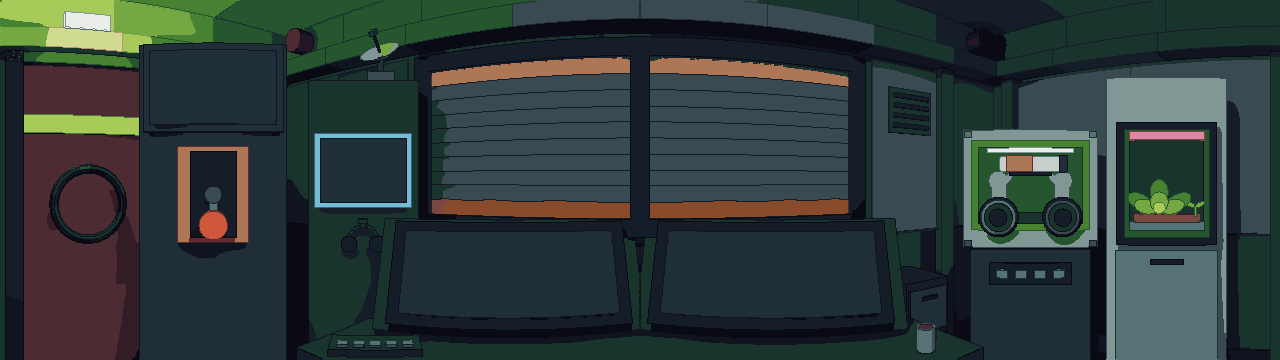
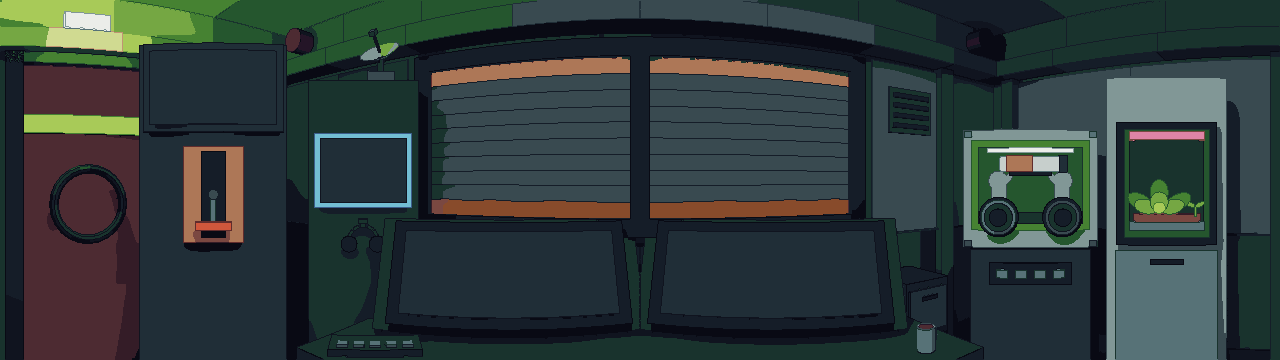
Punho em T na alavanca do abrigo e a composição da sala em script
O punho vira uma barra vermelha de 0,20 x 0,048 m atravessada na ponta do braço, mais larga que a
fenda (agora 0,14 m), em vez da bola; o pino fica pequeno. scripts/compor_sala.py cola o render só
na região da alavanca sobre os PNGs do main, troca o pilar para a cor de antes e prova que fora dela
os PNGs e a persiana ficam idênticos. botoes.abrigo passa de 177,145 73x98 para 182,145 62x98.

Changed region(s): [[0.125, 0.3972, 0.2188, 0.7333]]

diff --git a/scripts/compor_sala.py b/scripts/compor_sala.py
@@ -1,0 +1,163 @@
+"""Compõe os PNGs da sala: o render novo só dentro de uma região, o resto igual ao de um commit base.
+
+Para que serve. Um objeto novo na sala (a alavanca do abrigo, depois o pato) muda o render inteiro um
+pouco: a luz que rebate, o tom que a mediana de uma face grande resolve e uns pixels esparsos longe do
+objeto. Fora do objeto a sala tem de ficar igual, então só a região dele entra, sobre os PNGs do commit
+base. A região cobre o que o objeto novo ocupa, o que o antigo ocupava e a sombra dos dois.
+
+Uso (da raiz do repo, depois de renderizar com `--saida` DENTRO do repo: o Blender é um Flatpak e não
+grava em /tmp):
+    ~/.local/bin/blender -b --factory-startup -P $PWD/arte/blender/comodo.py -- \\
+        --estados normal,tempestade,abrigo,modo_seguranca,abrigo_aberto --saida arte/blender/.render/novo
+    python3 scripts/compor_sala.py --render arte/blender/.render/novo --regiao 154 131 272 258
+    python3 scripts/gerar_persiana.py
+    python3 scripts/compor_sala.py --provar --regiao 154 131 272 258
+
+Argumentos:
+    --render DIR     onde o Blender gravou os PNGs crus e o regioes.json (padrão arte/blender/.render/novo).
+                     Os passes de índice (<estado>_indice.npy) e o indices.json vêm de arte/blender/.render,
+                     onde o comodo.py os grava sempre.
+    --regiao X0 Y0 X1 Y1   a região de repintura, em px do panorama, com X1 e Y1 exclusivos.
+    --base REF       de onde vêm os PNGs fora da região (padrão origin/main). Lidos com `git show`.
+    --pilar NOME     o objeto de fundo em que o objeto novo está montado (padrão suporte_corpo).
+    --objeto PREFIXO prefixo dos nomes dos objetos novos no indices.json (padrão abrigo_).
+    --provar         não compõe: só compara os 5 PNGs da sala, a persiana.png e a persiana_indice.png
+                     de assets/comodo com os da base e sai com 1 se algum pixel difere fora da região.
+
+O que faz (sem --provar), por estado (normal, tempestade, abrigo, abrigo_aberto, modo_seguranca):
+1. Parte do PNG da base.
+2. Cola o render novo dentro da região.
+3. Troca a cor dos pixels do pilar dentro da região pela tabela de cor do pilar (abaixo).
+4. Grava em assets/comodo e copia o regioes.json do render para lá, se ele existir.
+Depois confere o diff contra a base e mostra os pixels que diferem fora da região.
+
+A tabela de cor do pilar. O render novo pinta o pilar de outro tom em alguns estados: na tempestade o
+botão grande tinha emissão vermelha, e sem ele a mediana da face do pilar cai em `202e37` (ardósia)
+em vez de `341c27` (vinho). Colado como veio, o render deixaria um retângulo de pilar de outra cor
+dentro do pilar de antes. A tabela novo -> base é medida em cada estado, por maioria (no mínimo 20
+pixels), nos pixels do pilar fora da região, que têm a mesma luz nos dois renders menos esse tom.
+Dentro da região só os pixels que o passe de índice do render novo diz serem do pilar passam pela
+tabela; o objeto novo e o contorno dele ficam como o render os fez.
+
+A persiana: rode scripts/gerar_persiana.py depois da composição. Como a região fica longe da janela,
+persiana.png e persiana_indice.png saem iguais aos da base (a prova `--provar` confere).
+"""
+import argparse
+import io
+import json
+import shutil
+import subprocess
+import sys
+from pathlib import Path
+
+import numpy as np
+from PIL import Image
+
+RAIZ = Path(__file__).resolve().parent.parent
+COMODO = RAIZ / "assets" / "comodo"
+CACHE = RAIZ / "arte" / "blender" / ".render"
+ESTADOS = ("normal", "tempestade", "abrigo", "abrigo_aberto", "modo_seguranca")
+PERSIANA = ("persiana", "persiana_indice")
+MIN_PIXELS_TABELA = 20
+
+
+def da_base(base, nome):
+    saida = subprocess.run(["git", "show", f"{base}:assets/comodo/{nome}.png"], cwd=RAIZ,
+                           capture_output=True, check=True).stdout
+    return np.array(Image.open(io.BytesIO(saida)).convert("RGBA"))
+
+
+def empacotar(rgba):
+    p = rgba.astype(np.uint32)
+    return (p[..., 0] << 24) | (p[..., 1] << 16) | (p[..., 2] << 8) | p[..., 3]
+
+
+def desempacotar(v):
+    v = np.uint32(v)
+    return np.array([(v >> 24) & 255, (v >> 16) & 255, (v >> 8) & 255, v & 255], np.uint8)
+
+
+def tabela_do_pilar(novo, base, indice, pilar, regiao):
+    """Cor do render novo -> cor da base, por maioria, nos pixels do pilar fora da região."""
+    x0, y0, x1, y1 = regiao
+    fora = indice == pilar
+    fora[y0:y1, x0:x1] = False
+    pares = np.stack([empacotar(novo)[fora], empacotar(base)[fora]], 1)
+    unicos, conta = np.unique(pares, axis=0, return_counts=True)
+    melhor = {}
+    for (cn, cb), n in zip(unicos, conta):
+        if n >= MIN_PIXELS_TABELA and (cn not in melhor or n > melhor[cn][1]):
+            melhor[cn] = (cb, n)
+    return {cn: cb for cn, (cb, _) in melhor.items()}
+
+
+def compor(args, regiao):
+    x0, y0, x1, y1 = regiao
+    render = Path(args.render) if Path(args.render).is_absolute() else RAIZ / args.render
+    indices = json.loads((CACHE / "indices.json").read_text())
+    pilar = indices[args.pilar]
+    novos = {v for k, v in indices.items() if k.startswith(args.objeto)}
+    for estado in ESTADOS:
+        base = da_base(args.base, estado)
+        novo = np.array(Image.open(render / f"{estado}.png").convert("RGBA"))
+        indice = np.load(CACHE / f"{estado}_indice.npy")
+        tabela = tabela_do_pilar(novo, base, indice, pilar, regiao)
+        saida = base.copy()
+        saida[y0:y1, x0:x1] = novo[y0:y1, x0:x1]
+        do_pilar = indice[y0:y1, x0:x1] == pilar
+        trecho = saida[y0:y1, x0:x1]
+        original = empacotar(trecho)  # as máscaras saem do render, não do que já foi trocado
+        trocados = 0
+        for cn, cb in tabela.items():
+            alvo = do_pilar & (original == cn)
+            if cn != cb:
+                trecho[alvo] = desempacotar(cb)
+                trocados += int(alvo.sum())
+        saida[y0:y1, x0:x1] = trecho
+        outros = sorted(k for k, v in indices.items()
+                        if v in set(np.unique(indice[y0:y1, x0:x1])) - novos - {pilar})
+        Image.fromarray(saida, "RGBA").save(COMODO / f"{estado}.png", optimize=True)
+        legenda = ", ".join(f"{int(a):08x}->{int(b):08x}" for a, b in tabela.items())
+        print(f"{estado}: tabela do pilar (RRGGBBAA) {{{legenda}}}; pilar trocado: {trocados} px; "
+              f"outros objetos na região: {outros}")
+    if (render / "regioes.json").exists():
+        shutil.copy(render / "regioes.json", COMODO / "regioes.json")
+        print(f"regioes.json copiado de {render}")
+
+
+def provar(args, regiao):
+    x0, y0, x1, y1 = regiao
+    dentro = np.zeros((360, 1280), bool)
+    dentro[y0:y1, x0:x1] = True
+    total = 0
+    print(f"região de repintura: x {x0}..{x1 - 1}, y {y0}..{y1 - 1}; base {args.base}")
+    for nome in ESTADOS + PERSIANA:
+        a = da_base(args.base, nome).astype(int)
+        b = np.array(Image.open(COMODO / f"{nome}.png").convert("RGBA")).astype(int)
+        dif = (a != b).any(axis=2)
+        fora = int((dif & ~dentro).sum())
+        ys, xs = np.nonzero(dif)
+        caixa = f"x {xs.min()}..{xs.max()}, y {ys.min()}..{ys.max()}" if len(xs) else "nenhum"
+        print(f"{nome:16s} difere {int(dif.sum()):6d} px | dentro {int((dif & dentro).sum()):6d} | "
+              f"FORA {fora:6d} | caixa do que difere: {caixa}")
+        total += fora
+    print("TOTAL FORA da região:", total, "->", "PASSA" if total == 0 else "FALHA")
+    return total
+
+
+def main():
+    p = argparse.ArgumentParser(description=__doc__.split("\n")[0])
+    p.add_argument("--render", default="arte/blender/.render/novo")
+    p.add_argument("--regiao", type=int, nargs=4, required=True, metavar=("X0", "Y0", "X1", "Y1"))
+    p.add_argument("--base", default="origin/main")
+    p.add_argument("--pilar", default="suporte_corpo")
+    p.add_argument("--objeto", default="abrigo_")
+    p.add_argument("--provar", action="store_true")
+    args = p.parse_args()
+    if not args.provar:
+        compor(args, args.regiao)
+    sys.exit(1 if provar(args, args.regiao) else 0)
+
+
+if __name__ == "__main__":
+    main()

diff --git a/arte/blender/comodo.py b/arte/blender/comodo.py
@@ -19,10 +19,11 @@ scripts/gerar_persiana.py usa a diferença entre `abrigo` e `abrigo_aberto` como
 persiana.
 
 Os PNGs da sala com a alavanca (15/11) não são o render cru: são o render só na região de repintura
-da alavanca (x 154..271, y 131..257, que cobre o botão antigo e a sombra dos dois) colado sobre os
-PNGs anteriores, com o pilar do suporte de vida na cor de antes. Com a geometria nova o render inteiro
-muda o tom desse pilar na tempestade (a emissão do botão grande sumiu) e uns pixels esparsos
-mudam longe dela; fora da região os PNGs ficam idênticos aos do commit anterior.
+da alavanca (x 154..271, y 131..257), colado sobre os PNGs anteriores por scripts/compor_sala.py,
+que leva a região, a tabela de cor do pilar e a prova de que fora dela os PNGs ficam idênticos. O
+render inteiro muda o tom do pilar na tempestade e uns pixels longe do objeto. Depois do render:
+`scripts/compor_sala.py --render <pasta do --saida> --regiao 154 131 272 258`, depois
+scripts/gerar_persiana.py. O `--saida` tem de ficar dentro do repo (o Blender é um Flatpak).
 
 Arte final, não mais gray-box: o casco tem placas com juntas, meia-parede, friso, rodapé, calha
 em trechos, teto em placas e uma grade de ventilação; a glovebox e a estufa têm miolo com luz
@@ -330,7 +331,7 @@ ESTUFA_C = (2.315, 0.66)
 ALAVANCA = {"cima": [], "baixo": []}
 ESTADOS_ABRIGADOS = ("abrigo", "abrigo_aberto")
 ALAVANCA_Z = 1.12                    # altura do pino, centro da placa
-ALAVANCA_CURSO = 0.16                # do pino ao centro do punho, para cima ou para baixo
+ALAVANCA_CURSO = 0.17                # do pino ao centro do punho (a barra em T), para cima ou para baixo
 
 
 def botao(nome, cor):
@@ -743,8 +744,9 @@ def construir():
     caixa("porta_lampada", (-W + 0.06, py, 2.2), (0.08, 0.3, 0.1), lampada_porta, next(i))
 
     # suporte de vida: coluna voltada para o olho, com a tela de radiação em cima
-    # e a alavanca do abrigo embaixo: placa de aro amarelo, fenda escura, pino e, no braço de aço,
-    # o punho vermelho (a cor do alerta que pede o abrigo). Em cima, o abrigo está desligado;
+    # e a alavanca do abrigo embaixo: placa de aro amarelo, fenda escura, pino cinza e, no braço de aço,
+    # o punho em T, uma barra vermelha (a cor do alerta que pede o abrigo) atravessada na ponta do braço
+    # e mais larga que a fenda, como o punho de incêndio de um avião. Em cima, o abrigo está desligado;
     # embaixo, ativo. O braço sai do pino para a posição do estado: ver ALAVANCA e aplicar_estado.
     s = Painel(-2.14, 1.235)
     s.caixa("suporte_base", 0, 0, 0.06, 0.95, 0.42, 0.12, moldura, next(i))
@@ -754,15 +756,17 @@ def construir():
     botao("botao_abrigo", "cf573c")
     aco = mat("alavanca_aco", "a8b5b2")
     pino = mat("alavanca_pino", "577277")
-    s.caixa("abrigo_aro", 0, 0.175, ALAVANCA_Z, 0.40, 0.05, 0.54, amarelo, next(i))
-    s.caixa("abrigo_fenda", 0, 0.20, ALAVANCA_Z, 0.26, 0.03, 0.48, moldura, next(i))
-    s.cil("abrigo_pino", 0, 0.23, ALAVANCA_Z, 0.05, 0.03, pino, next(i))
+    s.caixa("abrigo_aro", 0, 0.175, ALAVANCA_Z, 0.34, 0.05, 0.54, amarelo, next(i))
+    s.caixa("abrigo_fenda", 0, 0.20, ALAVANCA_Z, 0.14, 0.03, 0.48, moldura, next(i))
+    s.cil("abrigo_pino", 0, 0.23, ALAVANCA_Z, 0.03, 0.03, pino, next(i))
     for pos, sinal in (("cima", 1), ("baixo", -1)):
         zc = ALAVANCA_Z + sinal * ALAVANCA_CURSO
         ALAVANCA[pos] += [
             s.caixa(f"abrigo_braco_{pos}", 0, 0.225, ALAVANCA_Z + sinal * ALAVANCA_CURSO / 2,
-                    0.05, 0.03, ALAVANCA_CURSO, aco, next(i)),
-            s.cil(f"abrigo_punho_{pos}", 0, 0.28, zc, 0.078, 0.09, MATS["botao_abrigo"], next(i)),
+                    0.035, 0.03, ALAVANCA_CURSO, aco, next(i)),
+            # o T: 0,20 x 0,048 m, uns 33 x 8 px no panorama, 3 cm mais largo que a fenda de cada lado
+            s.caixa(f"abrigo_punho_{pos}", 0, 0.25, zc, 0.20, 0.035, 0.048, MATS["botao_abrigo"],
+                    next(i)),
         ]
 
     # parede da frente, à esquerda: a tela de comunicação com a Terra, num pilar voltado para o
